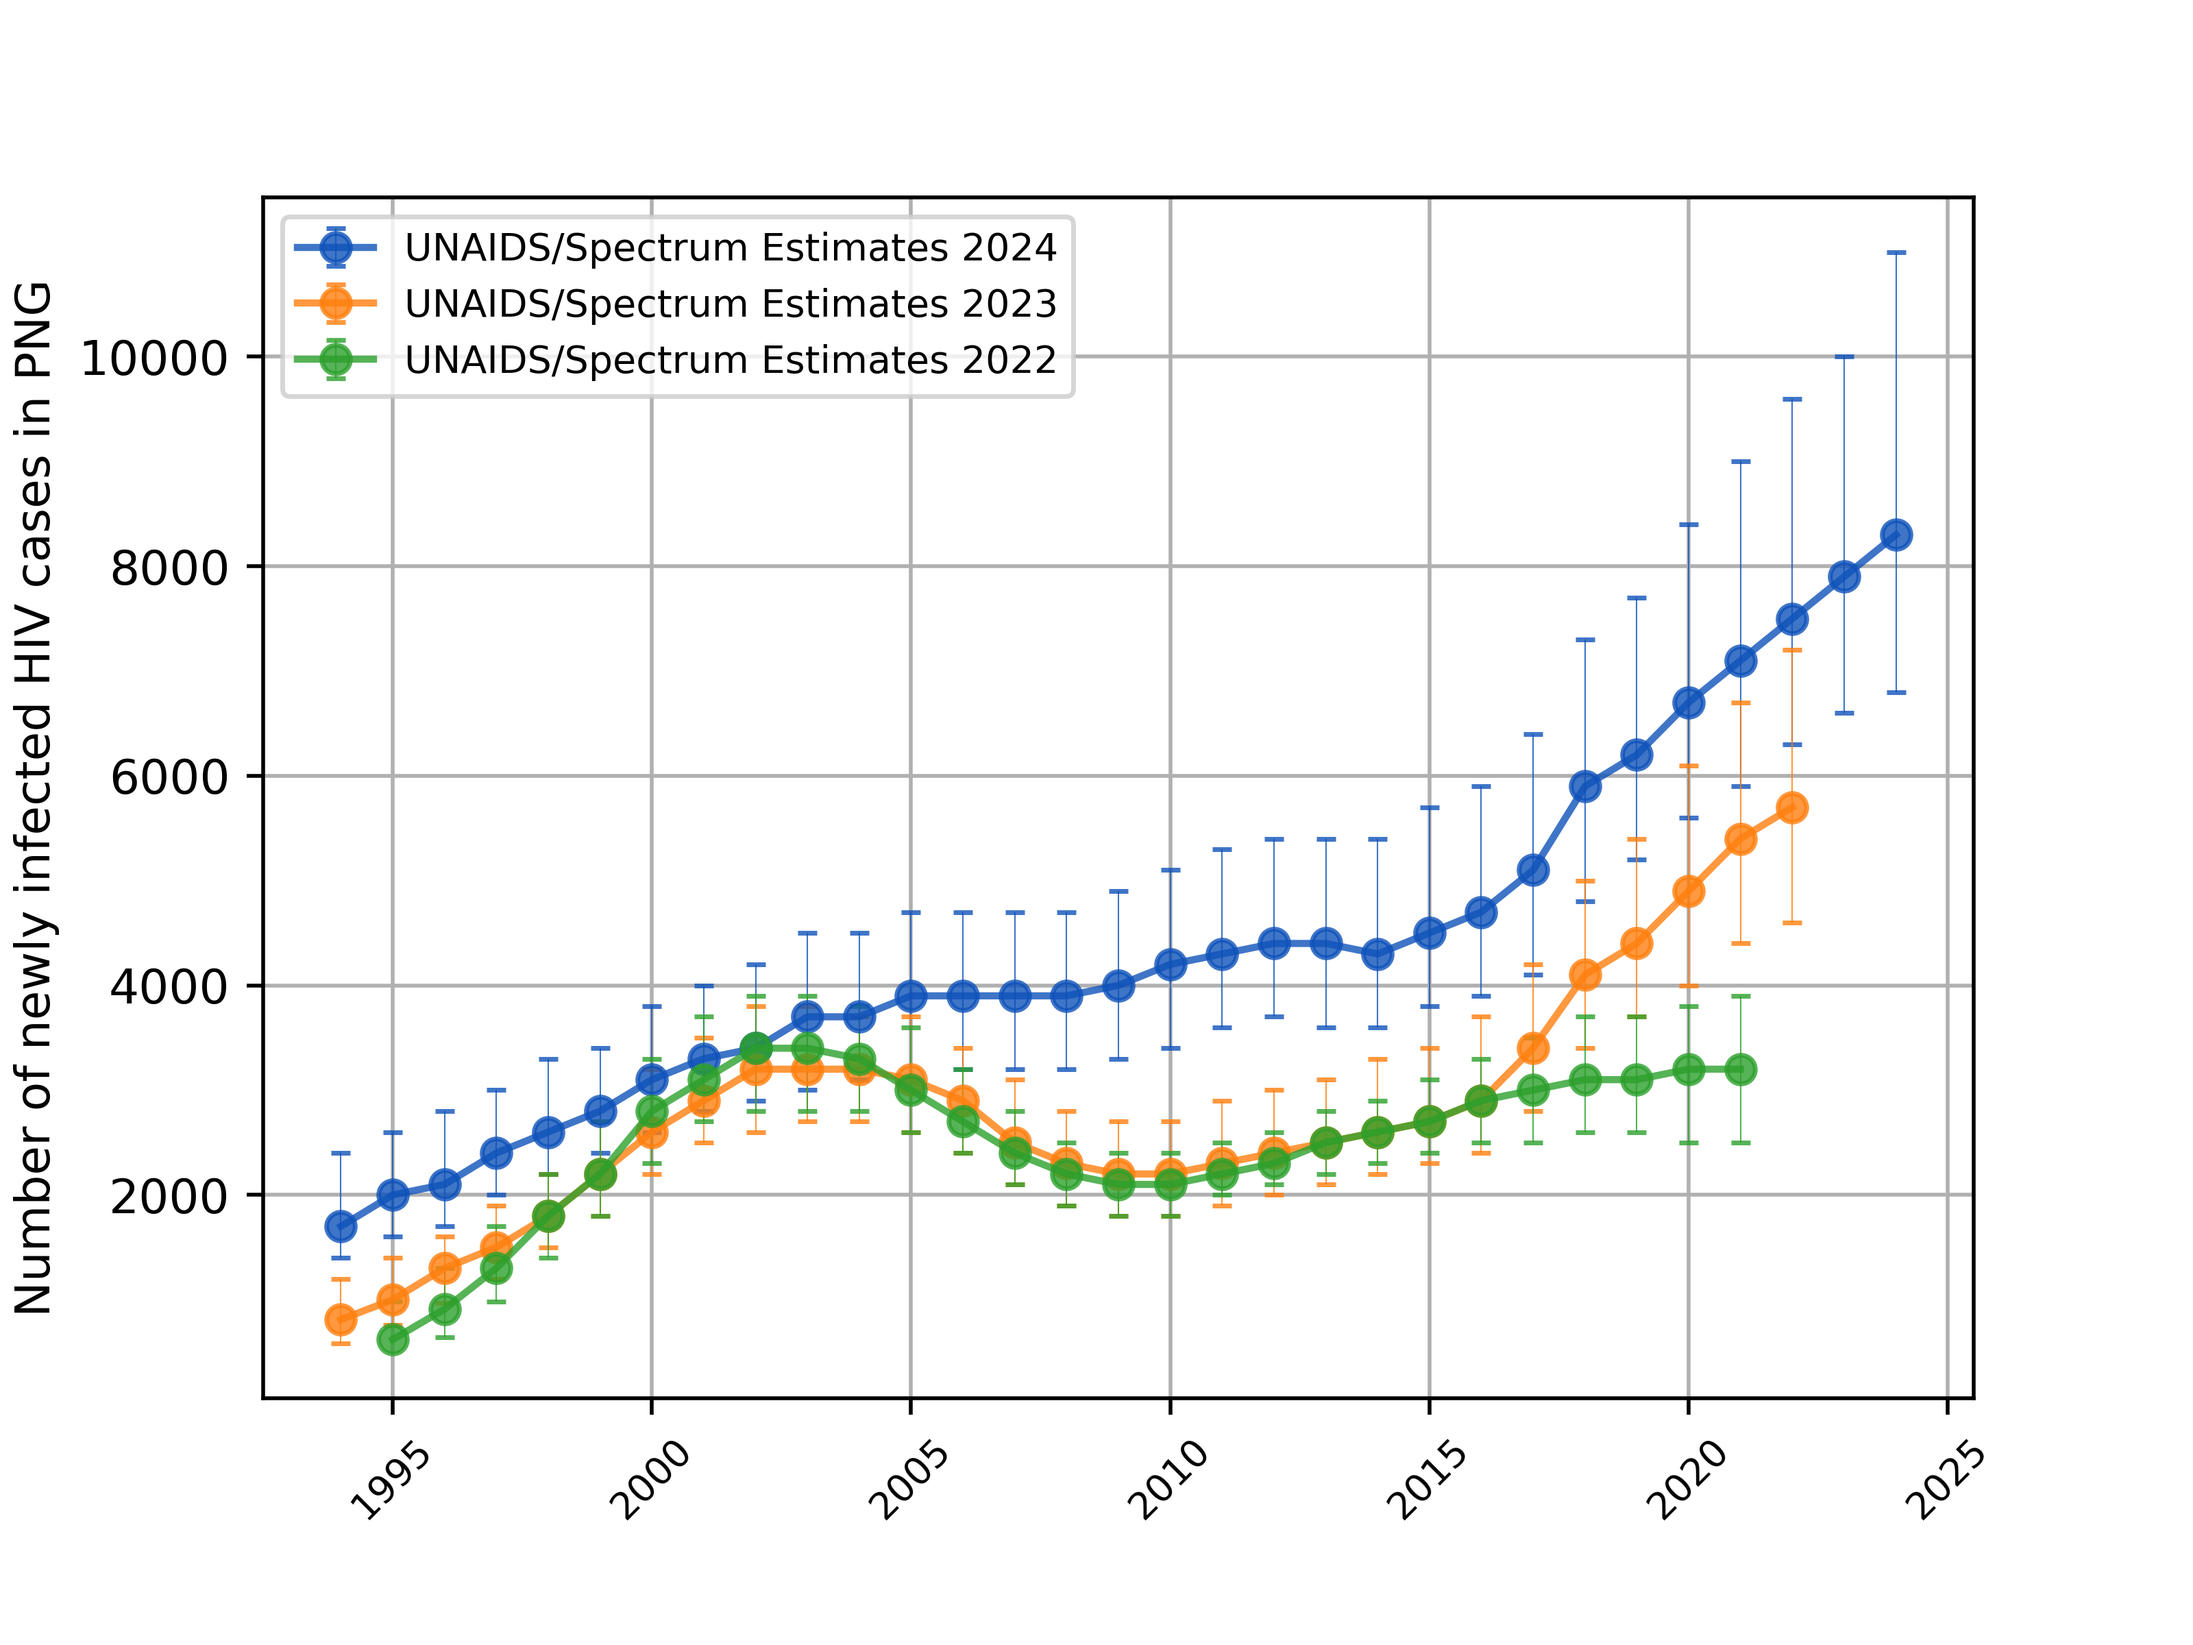
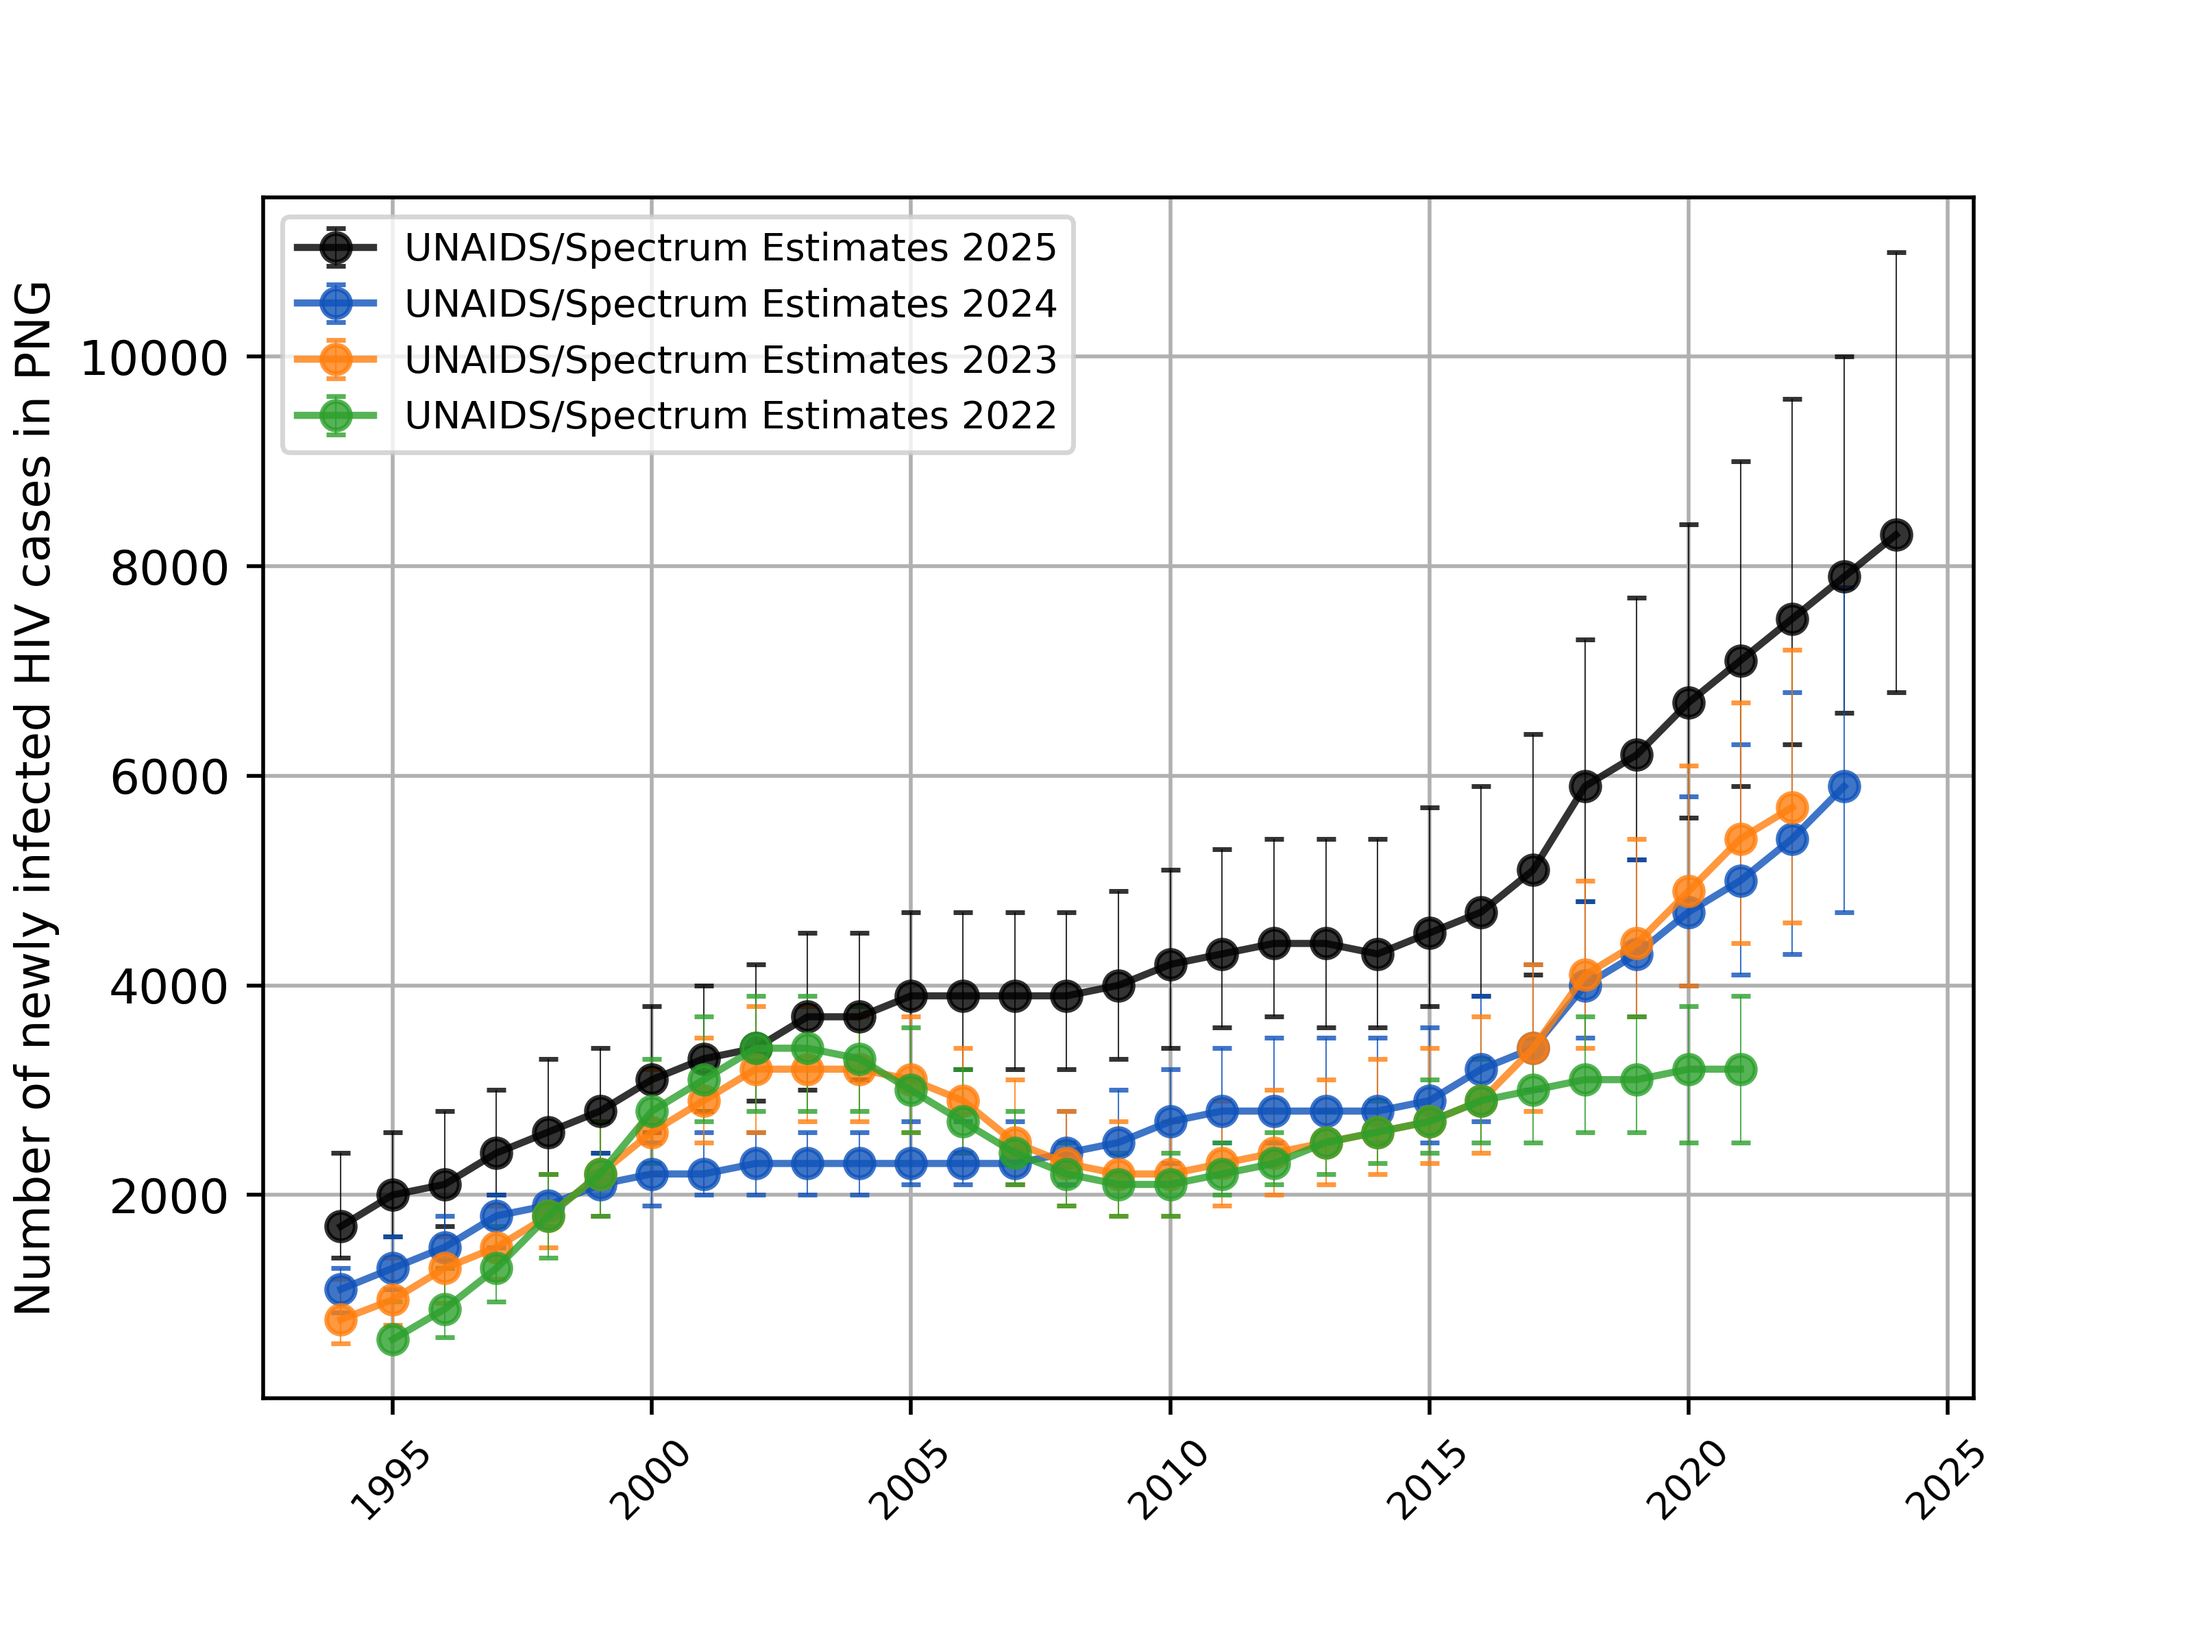
Updating the information README regarding UNAIDS update

diff --git a/Chp2-Figures.py b/Chp2-Figures.py
@@ -615,6 +615,27 @@ higher_CI =  np.subtract(higher_CI,np.asarray(scatter_points))
 
 
 x_values_scatters = list(range(0,len(scatter_points)))
+plt.errorbar(x_values_scatters,scatter_points.to_numpy().flatten(),yerr=[lower_CI.to_numpy().flatten(), higher_CI.to_numpy().flatten()], fmt='-o',  capsize=2, c = "black",ecolor ="black",elinewidth = 0.3, alpha=0.8, label = "UNAIDS/Spectrum Estimates 2025")
+
+
+### Updated UNAIDS/ SPECTRUM estimates in 2024
+scatter_points = dat_depraciated_2024.loc[dat_depraciated_2024.index[dat_depraciated_2024.index >= starting_epidemic_year],['Adults (15+) newly infected with HIV']]
+lower_CI = dat_depraciated_2024.loc[dat_depraciated_2024.index[dat_depraciated_2024.index >= starting_epidemic_year],['Missing31']]
+higher_CI = dat_depraciated_2024.loc[dat_depraciated_2024.index[dat_depraciated_2024.index >= starting_epidemic_year],['Missing32']]
+
+scatter_points[scatter_points =="<500"] = np.nan
+lower_CI[lower_CI =="<500"] = np.nan
+higher_CI[higher_CI =="<500"] = np.nan
+lower_CI[lower_CI =="<200"] = np.nan
+higher_CI[higher_CI =="<200"] = np.nan
+
+#### calculation_lower_upper_limits
+lower_CI = np.subtract(scatter_points, np.asarray(lower_CI))
+higher_CI =  np.subtract(higher_CI,np.asarray(scatter_points))
+
+
+
+x_values_scatters = list(range(0,len(scatter_points)))
 plt.errorbar(x_values_scatters,scatter_points.to_numpy().flatten(),yerr=[lower_CI.to_numpy().flatten(), higher_CI.to_numpy().flatten()], fmt='-o',  capsize=2, c = "#0F52BA",ecolor ="#0F52BA",elinewidth = 0.3, alpha=0.8, label = "UNAIDS/Spectrum Estimates 2024")
 
 
@@ -694,10 +715,31 @@ plt.show()
 
 setCorrectxAxis(actual_population,5,1)
 
-#### Updated UNAIDS/ SPECTRUM estimates in the 2022 
+#### Updated UNAIDS/ SPECTRUM estimates 
 scatter_points = dat_estimates_2023.loc[dat_estimates_2023.index[dat_estimates_2023.index >= starting_epidemic_year],['Adults (15-49) prevalence (%)']]
 lower_CI = dat_estimates_2023.loc[dat_estimates_2023.index[dat_estimates_2023.index >= starting_epidemic_year],['Missing3']]
 higher_CI = dat_estimates_2023.loc[dat_estimates_2023.index[dat_estimates_2023.index >= starting_epidemic_year],['Missing4']]
+
+scatter_points[scatter_points =="<0.1"] = np.nan
+lower_CI[lower_CI =="<0.1"] = np.nan
+higher_CI[higher_CI =="<0.1"] = np.nan
+
+#### calculation_lower_upper_limits
+lower_CI = np.subtract(scatter_points, np.asarray(lower_CI))
+higher_CI =  np.subtract(higher_CI,np.asarray(scatter_points))
+
+
+x_values_scatters = list(range(0,len(scatter_points)))
+# plt.scatter(x_values_scatters,scatter_points, label = 'Adults (15-49) prevalence',c="yellow")
+plt.errorbar(x_values_scatters,scatter_points.to_numpy().flatten(),yerr=[lower_CI.to_numpy().flatten(), higher_CI.to_numpy().flatten()], fmt='-o',  capsize=2,c = "black",ecolor ="black",elinewidth = 0.3, alpha=0.8, label = "UNAIDS/Spectrum Estimates 2025")
+########
+
+
+
+#### Updated UNAIDS/ SPECTRUM estimates outdated 2024 
+scatter_points = dat_depraciated_2024.loc[dat_depraciated_2024.index[dat_depraciated_2024.index >= starting_epidemic_year],['Adults (15-49) prevalence (%)']]
+lower_CI = dat_depraciated_2024.loc[dat_depraciated_2024.index[dat_depraciated_2024.index >= starting_epidemic_year],['Missing3']]
+higher_CI = dat_depraciated_2024.loc[dat_depraciated_2024.index[dat_depraciated_2024.index >= starting_epidemic_year],['Missing4']]
 
 scatter_points[scatter_points =="<0.1"] = np.nan
 lower_CI[lower_CI =="<0.1"] = np.nan
@@ -715,7 +757,7 @@ plt.errorbar(x_values_scatters,scatter_points.to_numpy().flatten(),yerr=[lower_C
 
 scatter_points = dat_estimates.loc[dat_estimates.index[dat_estimates.index >= starting_epidemic_year],['ACTUAL prevalence of HIV in reports']]
 x_values_scatters = list(range(0,len(scatter_points)))
-plt.scatter(x_values_scatters,scatter_points, label = 'PNG National  estimate',c="#DC143C")
+plt.scatter(x_values_scatters,scatter_points, label = 'PNG Historical Data',c="#DC143C")
 
 
 
@@ -766,7 +808,7 @@ plt.grid(True)
 # plt.ylim(0,1.5)
 plt.yticks(np.arange(0, 2.2, 0.2))
 plt.legend(loc="upper left",prop={'size': 8})
-plt.savefig('output/figures/UNAIDS HIV prevalence to itself.png', dpi=500)
+plt.savefig('output/figures/UNAIDS_HIV_prevalence_to_itself.png', dpi=500)
 plt.show()
 
 

diff --git a/Data_Importing/data_processing.py b/Data_Importing/data_processing.py
@@ -144,6 +144,27 @@ dat_testntreat_2023 = dat_testntreat_2023[1:]
 
 ######## old data extraction from previous years of UNAIDS estimates
 
+
+
+dat_depraciated_2024 = pd.read_excel(xls, 'Estimates-2024')
+dat_depraciated_2024.rename(columns={'Unnamed: 0':'Variable','Unnamed: 1':1900},inplace=True)
+
+dat_depraciated_2024['Variable'] = dat_depraciated_2024['Variable'].fillna('Name')
+n = dat_depraciated_2024['Variable'][(dat_depraciated_2024['Variable'] == 'Name')].count()
+
+l1 = ['Missing']*n
+l2 = list( range(1,n+1))
+l2 =  [str(x) for x in l2]
+
+new_column_names = [i + j for i, j in zip(l1, l2)]
+
+dat_depraciated_2024.loc[dat_depraciated_2024['Variable'] == 'Name', 'Variable'] = new_column_names
+
+dat_depraciated_2024 = dat_depraciated_2024.transpose()
+dat_depraciated_2024.columns = dat_depraciated_2024.iloc[0] 
+dat_depraciated_2024 = dat_depraciated_2024[1:]
+
+
 dat_depraciated_2023 = pd.read_excel(xls, 'Estimates-2023')
 dat_depraciated_2023.rename(columns={'Unnamed: 0':'Variable','Unnamed: 1':1900},inplace=True)
 

diff --git a/README.md b/README.md
@@ -27,7 +27,7 @@ PNG-TRANSMISSION-MODEL/
 1. Calibration.py - This code contains the Bayesian calibration procedure. If you just want to reproduce the results, there is no need to re-run this calibration. We provided an Excel sheet with 1,000 posterior samples for that purpose. This code is provided for transparency of the Bayesian procedures.
 2. Chap2-Figures.py - To generate the figures for calibration to data of Chapter 2 in the thesis. 
 3. folder `projects` contain the analyses for the relevant Chapters 2 and 3 for Quang's PhD thesis
-4. (IMPORTANT!) folder `output/figures` contains all the calibration graphs that are most relevant to understand this model and the HIV epidemic in Papua New Guinea
+4. (IMPORTANT!) folder `output/figures` contains all the calibration graphs that provide overview of the HIV epidemic in Papua New Guinea
 
 ![HIV prevalence in PNG](output/figures/Combined_Display_Figure_1.png)
 
@@ -59,3 +59,7 @@ This model in Python is designed, developed and maintained by [Quang Nguyen](htt
 Please contact Quang at qnguyen@kirby.unsw.edu.au for collaboration, queries or methodology questions/ concerns related to this model. We will respond promptly to your questions and concerns in future model updates. 
 ## License 
 This model is distributed under the GNU Affero General Public License v3.0 (AGPL-3.0). You are free to use, modify, and distribute the code, including for commercial purposes, provided that any derivative work is also made publicly available under the same license. For more details, see the LICENSE file.
+
+## Update in 2025
+In 2025, UNAIDS revised the modelling estimates in light of more surveillance data become available. UNAIDS modelling estimates were retrospectively updated since the start of the HIV epidemic. Our model is also updated and recalibrated to reflected this revision. 
+![Prevalence revised by UNAIDS](output/figures/UNAIDS_HIV_prevalence_to_itself.png)
